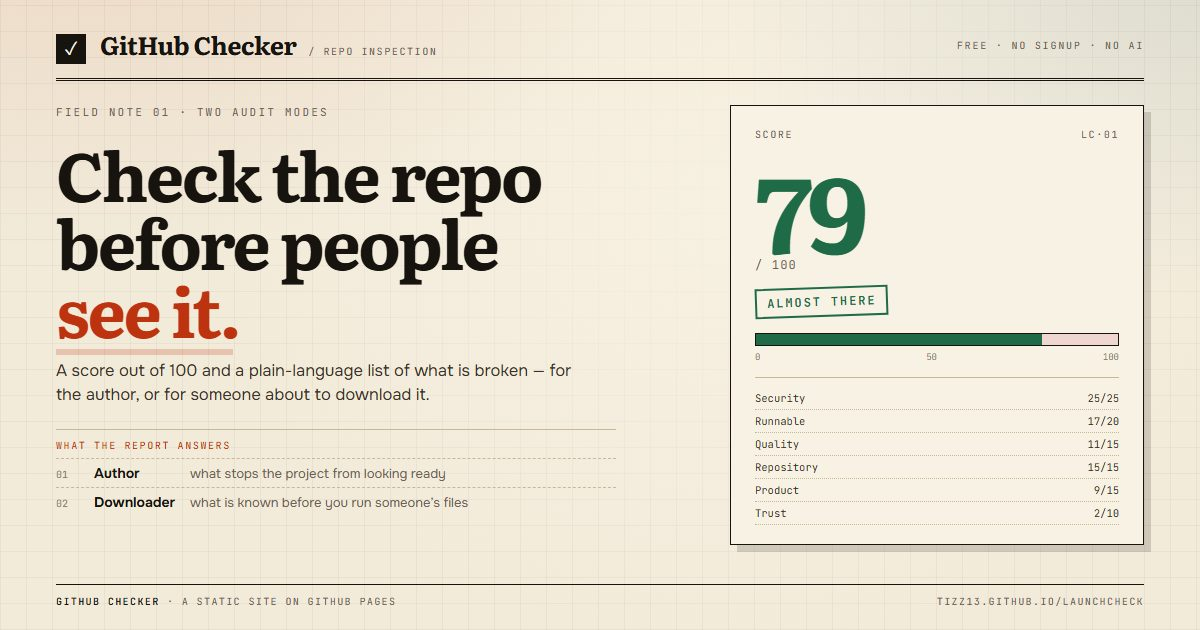
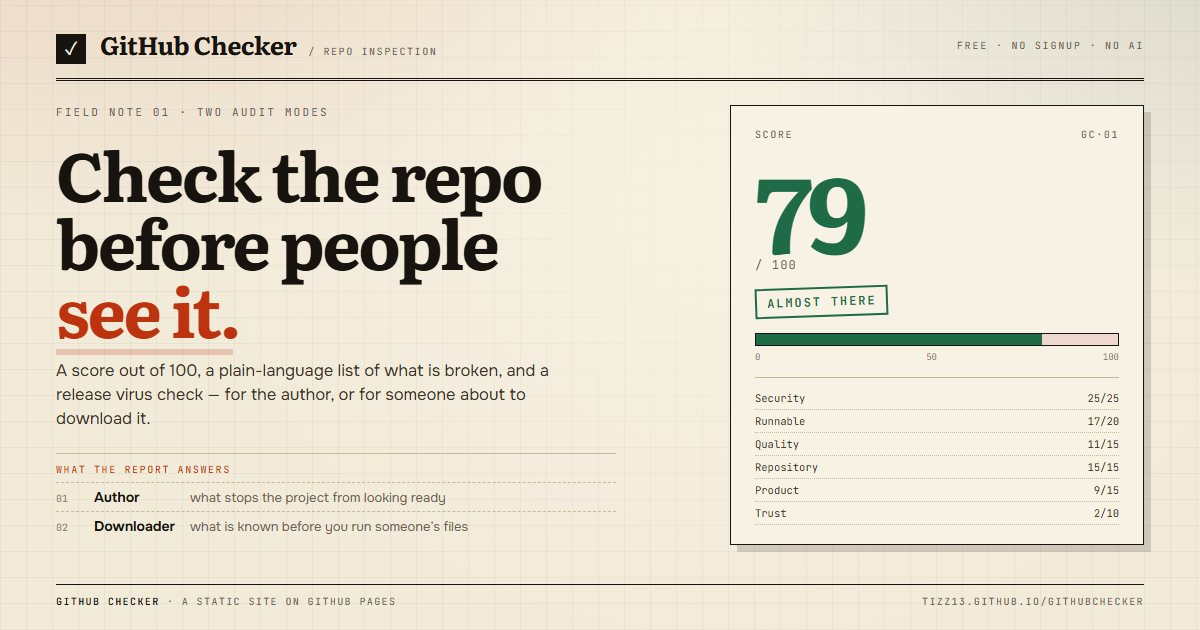
Update the share card with the current address and the virus check

Changed region(s): [[0.0308, 0.573, 0.4933, 0.8444], [0.7708, 0.9349, 0.8942, 0.9651], [0.925, 0.9349, 0.9558, 0.9651]]

diff --git a/index.html b/index.html
@@ -9,13 +9,13 @@
 <meta property="og:title" content="GitHub Checker — audit a repo before you publish or download it">
 <meta property="og:description" content="Score out of 100, plain-language issues, and a live virus check of release files by SHA-256 against AlienVault OTX. For the author, or for someone about to download the project.">
 <meta property="og:site_name" content="GitHub Checker">
-<meta property="og:image" content="https://tizz13.github.io/GitHubChecker/assets/og.jpg">
+<meta property="og:image" content="https://tizz13.github.io/GitHubChecker/assets/og.jpg?v=2">
 <meta property="og:image:width" content="1200">
 <meta property="og:image:height" content="630">
-<meta property="og:image:alt" content="GitHub Checker — check a repository before you publish or download it">
+<meta property="og:image:alt" content="GitHub Checker — check the repo and its release files before you publish or download">
 <meta property="og:url" content="https://tizz13.github.io/GitHubChecker/">
 <meta name="twitter:card" content="summary_large_image">
-<meta name="twitter:image" content="https://tizz13.github.io/GitHubChecker/assets/og.jpg">
+<meta name="twitter:image" content="https://tizz13.github.io/GitHubChecker/assets/og.jpg?v=2">
 <meta name="twitter:image:alt" content="GitHub Checker — check a repository before you publish or download it">
 <meta name="theme-color" content="#f2ebda">
 <link rel="canonical" href="https://tizz13.github.io/GitHubChecker/">

diff --git a/CHANGELOG.md b/CHANGELOG.md
@@ -21,6 +21,7 @@ All notable changes to this project are documented here. The format follows [Kee
 
 ### Fixed
 
+- The share card image still showed the old `launchcheck` address. It now shows the current site address and names the release virus check.
 - The browser storage helpers used bare `token`, `lang`, `last` and `mode` keys instead of the documented `githubchecker.*` names. They now use the namespaced keys, still read the old `launchcheck.*` values, and pick up keys written while the bug was live, so a saved token or language is not lost.
 
 ## [1.1.0] — 2026-11-18
